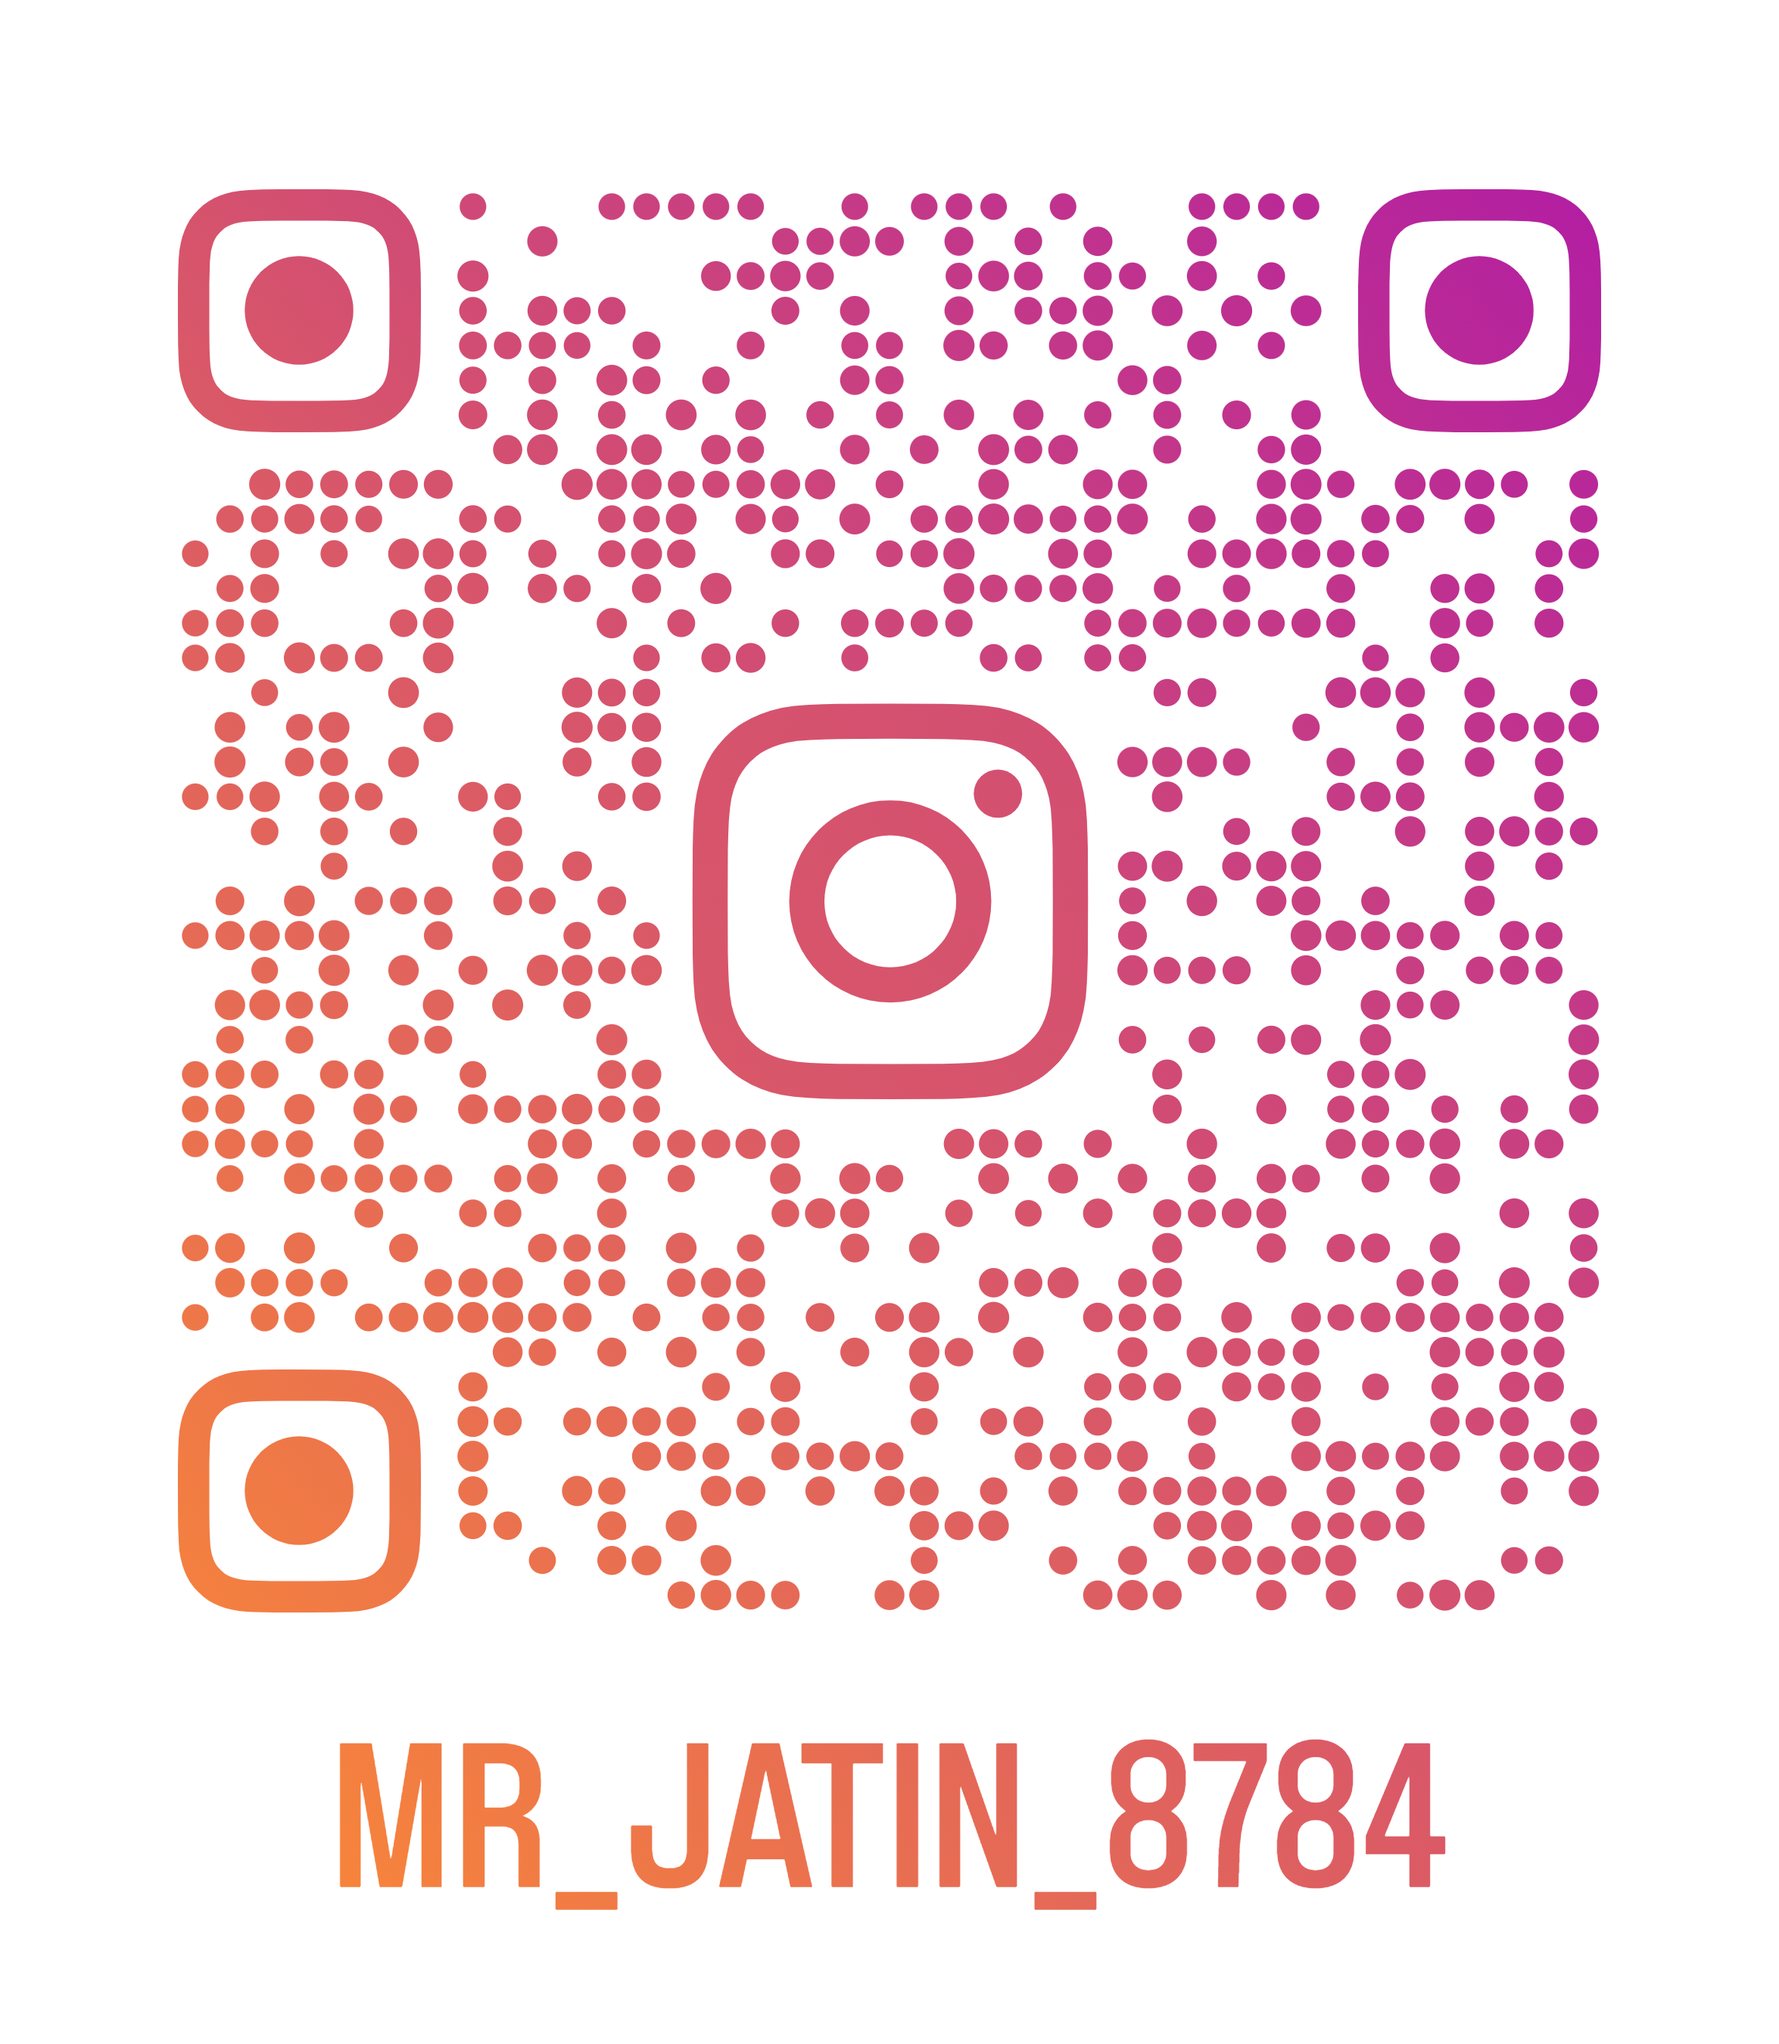
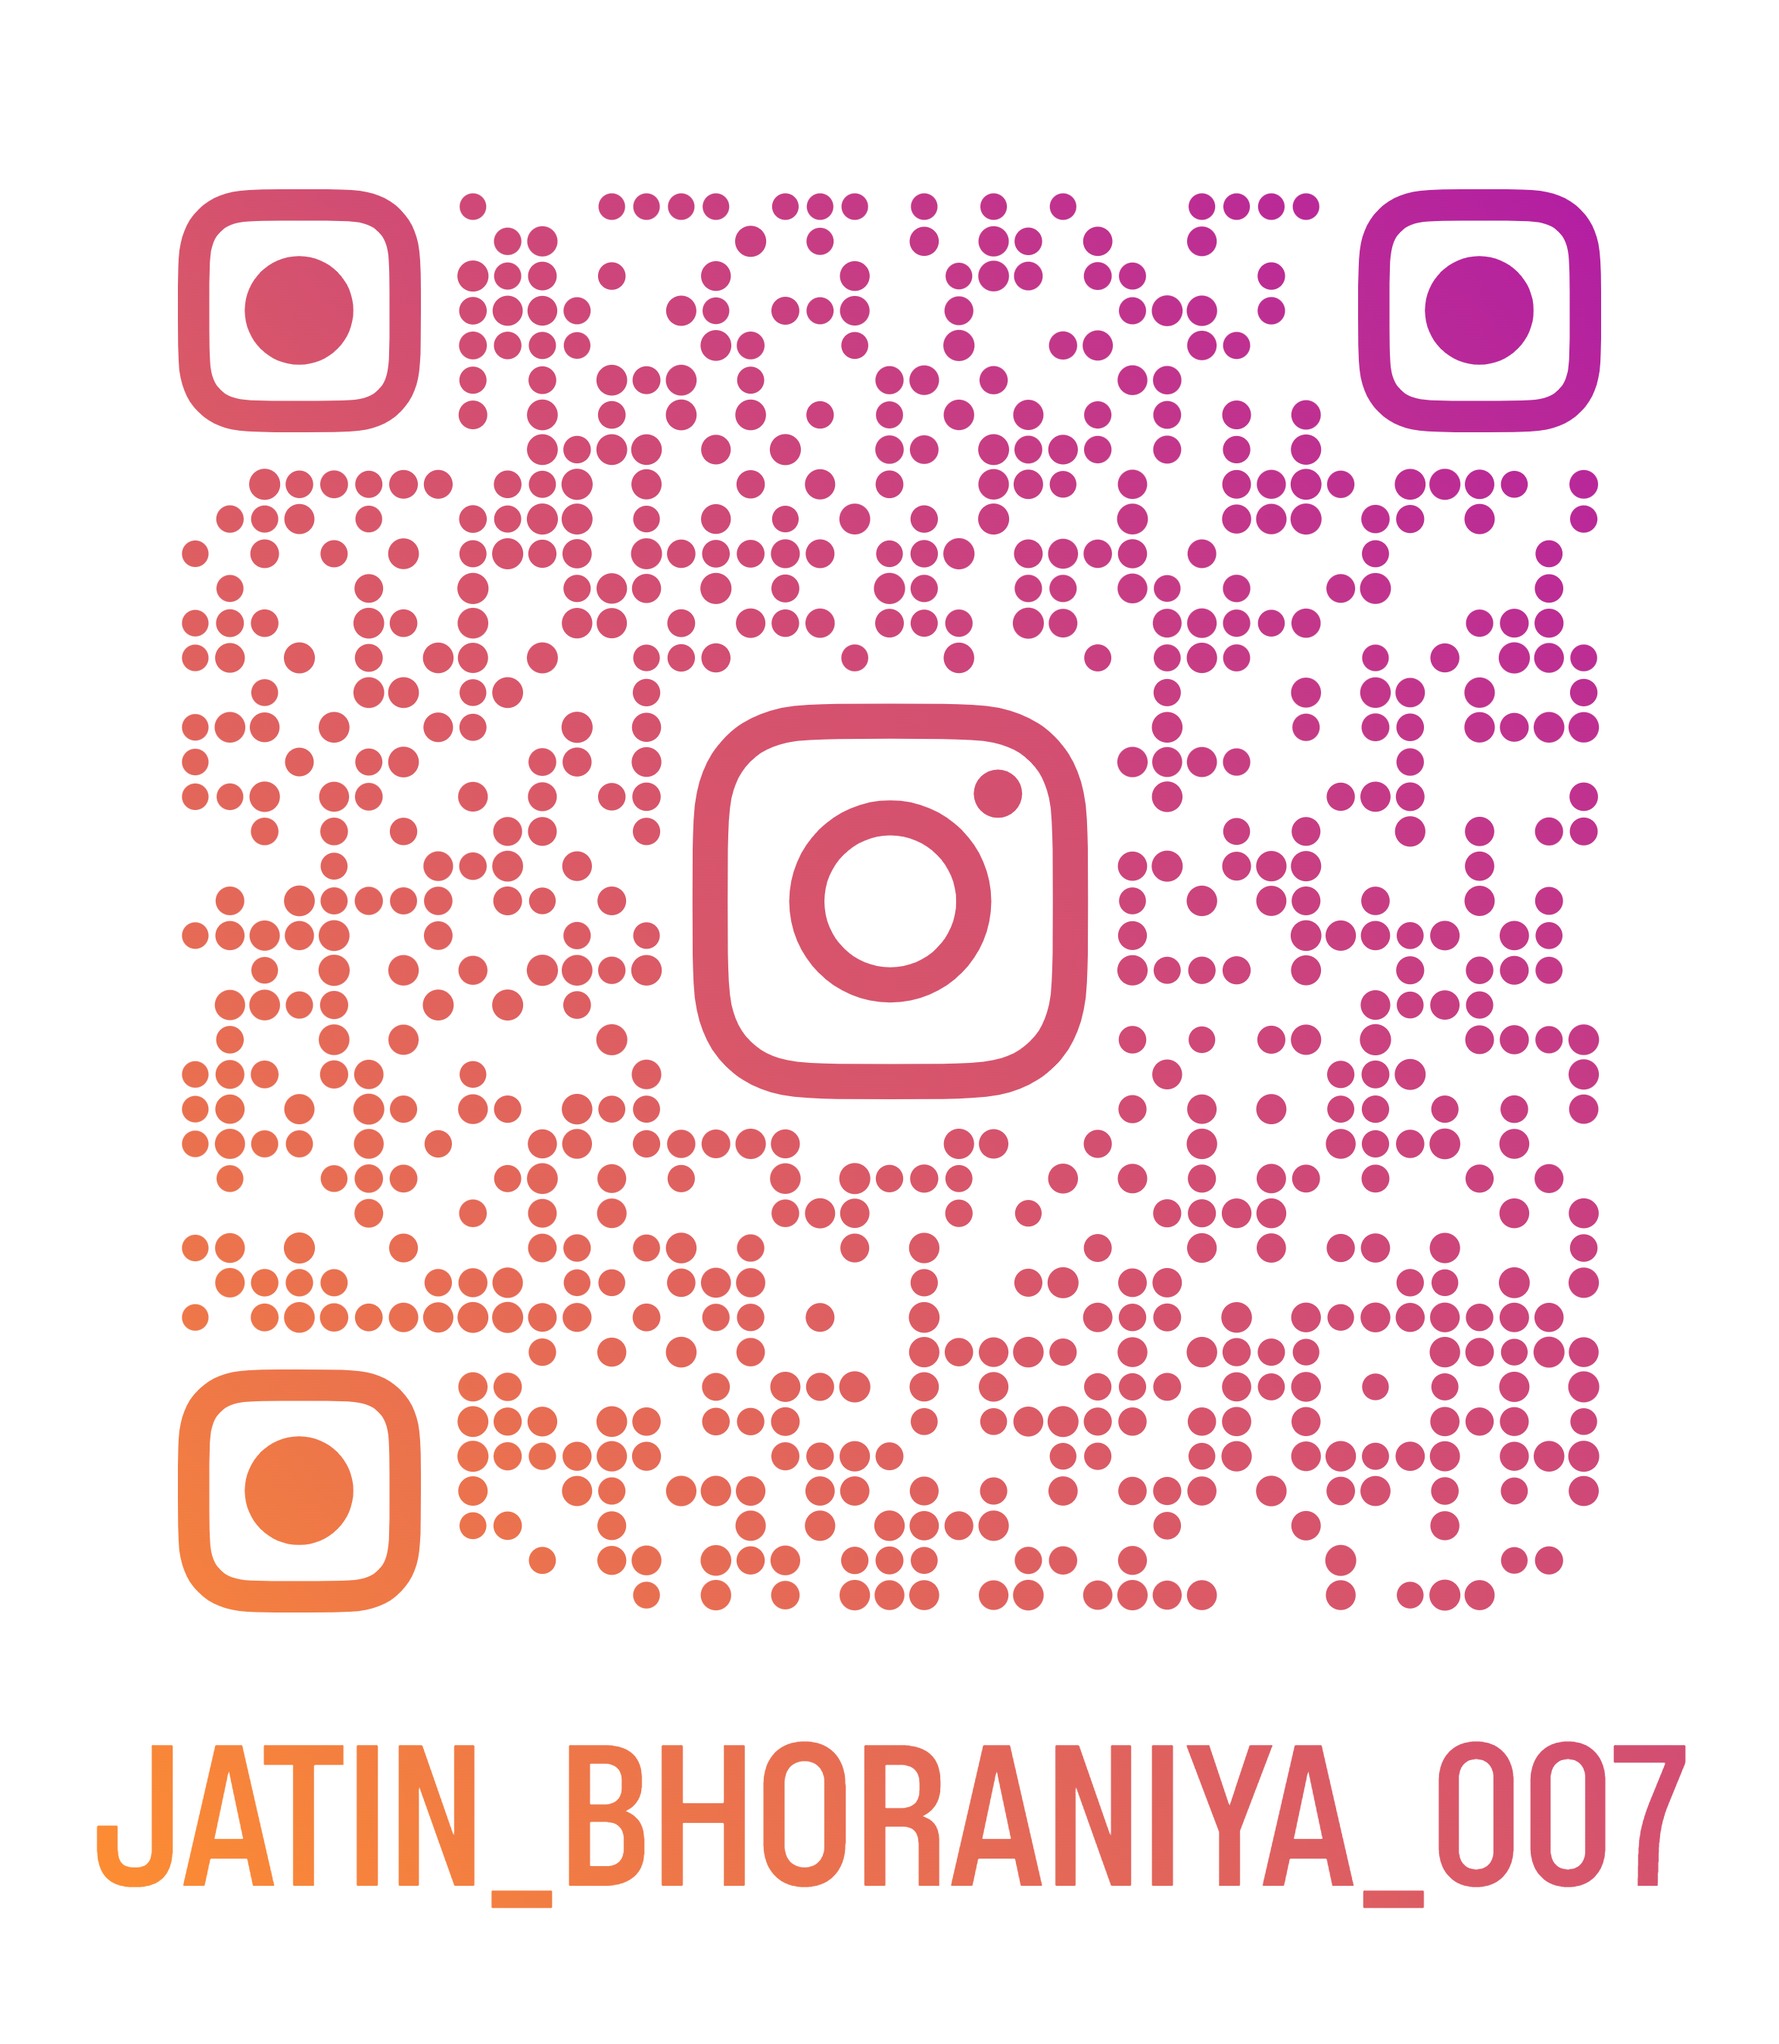
commit changes

diff --git a/client/src/components/Layout/Footer.jsx b/client/src/components/Layout/Footer.jsx
@@ -125,15 +125,16 @@ const Footer = () => {
           </div>
 
           {/* Follow Us QR */}
-          <div className="flex flex-col items-center lg:items-start justify-center">
+          <div className="flex flex-col items-center justify-center">
             <h3 className="text-lg font-semibold text-foreground mb-4">
               Follow Us
             </h3>
-            <div className="glass-card p-3 w-fit hover:glow-on-hover animate-smooth cursor-pointer group">
+            <div className="glass-card p-3 w-fit hover:glow-on-hover animate-smooth cursor-pointer group flex flex-col items-center">
               <a
-                href="https://www.instagram.com/jatin_bhoraniya/"
+                href="https://www.instagram.com/jatin_bhoraniya_007/"
                 target="_blank"
                 rel="noreferrer"
+                className="flex flex-col items-center"
               >
                 <img
                   src="/instagram-qr.png"
